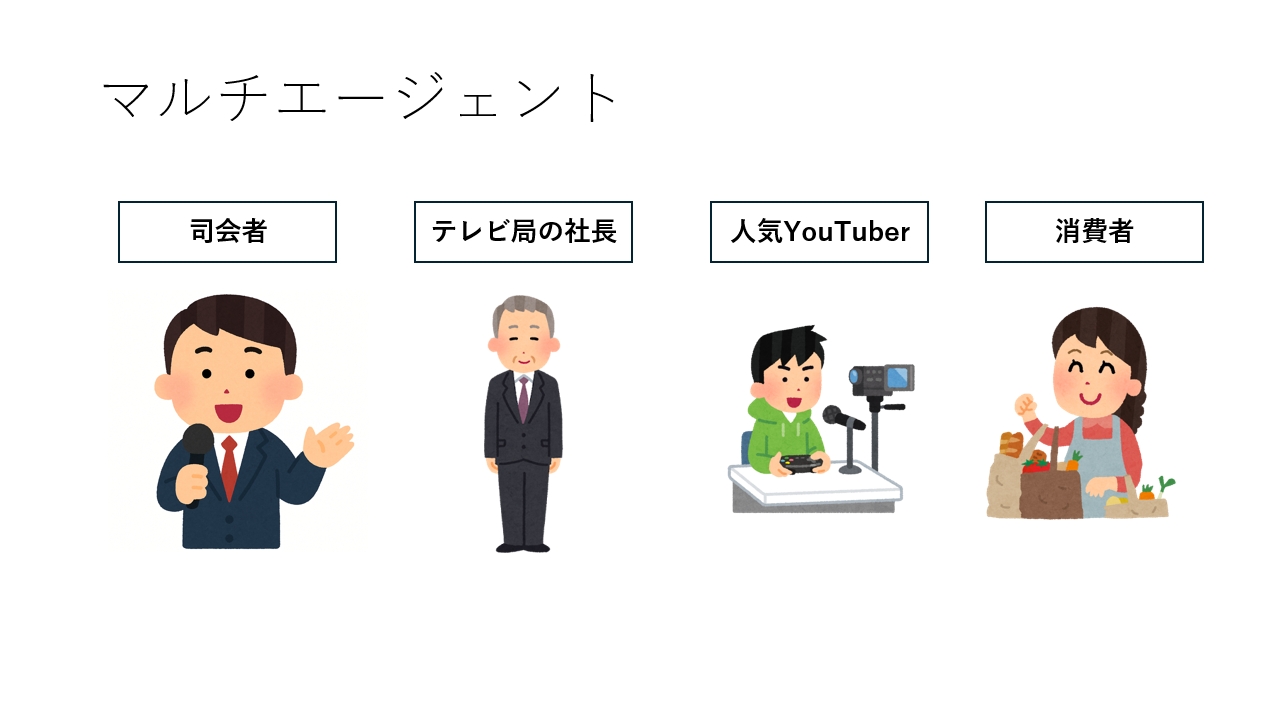
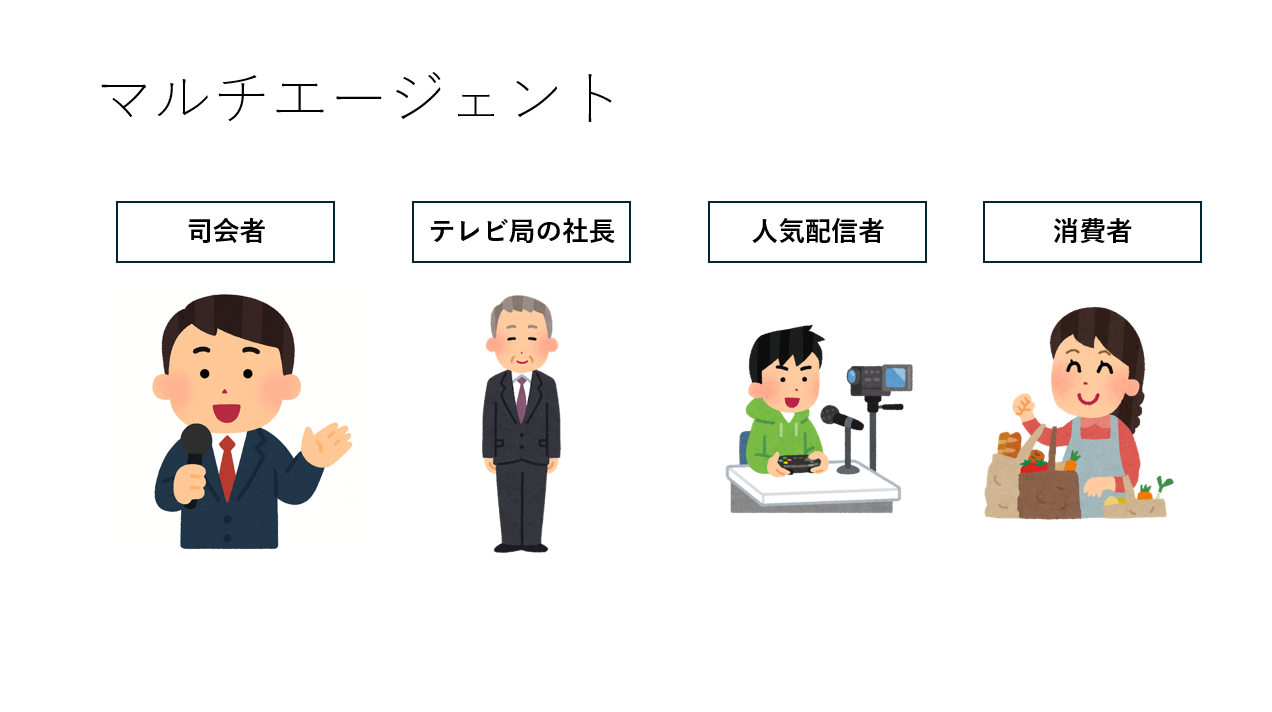
youtuber→人気配信者に変更

diff --git a/articles/aiagent_eval.md b/articles/aiagent_eval.md
@@ -12,12 +12,12 @@ publication_name: "secondselection"
 
 現在、私は**autogen**を用いたマルチエージェントシステムの構築に取り組んでいます。
 AIエージェントに関する話題は多くありますが、実際に構築を進める中でさまざまな課題に直面しました。
-詳しくは後述しますが、主な課題は「**エージェントが期待どおりに動かない**」点です。
+詳しくは後述しますが、主な課題は「**エージェントが期待どおりに動かない**」ことです。
 そこで、課題に対応するための評価方法を検討し、客観的な評価をすることにしました。
 これにより問題の所在を明確にし、効率的な改善につなげることを期待します。
 本記事では、**ディベートをするマルチエージェントシステム**を題材に、
 エージェントの設計・評価方法について記載します。
-ディベートのテーマは「テレビCMとYouTube広告のどちらが有効か」とします。
+ディベートのテーマは「テレビCMとネット広告のどちらが有効か」とします。
 
 :::details autogenとは
 Microsoftが開発したオープンソースのAIエージェント開発フレームワークです。
@@ -34,7 +34,7 @@ https://zenn.dev/secondselection/articles/ai_articles_generator
 
 > 複数のエージェントから構成されるシステムであり、個々のエージェントやモノリシックなシステムでは困難な課題をシステム全体として達成する。
 
-[引用元](https://ja.wikipedia.org/wiki/%E3%83%9E%E3%83%AB%E3%83%81%E3%82%A8%E3%83%BC%E3%82%B8%E3%82%A7%E3%83%B3%E3%83%88%E3%82%B7%E3%82%B9%E3%83%86%E3%83%A0)
+[引用元:Wikipedia](https://ja.wikipedia.org/wiki/%E3%83%9E%E3%83%AB%E3%83%81%E3%82%A8%E3%83%BC%E3%82%B8%E3%82%A7%E3%83%B3%E3%83%88%E3%82%B7%E3%82%B9%E3%83%86%E3%83%A0)
 
 難しいことが書かれていますが、シングルエージェントが協力して課題を達成するシステムを
 指します。
@@ -42,35 +42,27 @@ https://zenn.dev/secondselection/articles/ai_articles_generator
 ![alt text](/images/single.png)
 画像のような単一のエージェントのことをシングルエージェントと言います。
 ツールが用意されている場合、エージェントはツールを利用することが出来ます。
-今回は議論の内容を整理し、適切な進行をしてほしいので、議論を記録しておくツールを用意しました。
+今回は議論の内容を整理し、適切な進行をしてほしいので、議論を記録しておくツールを
+用意しました。
+
+-----
 
 ![alt text](/images/mulch.png)
-司会者、テレビ局の社長、人気YouTuber、消費者の4つのエージェントを用意しました。
-司会者が進行をして、その他のエージェントが立場に沿った議論をすることを期待します。
-ディベートの際に司会者が進行ではなく、議論に参加するなどの行為をするとディベートがうまくいきません。
-このようにマルチエージェントシステムがうまく動作するにはシングルエージェントが正しく
-動作する前提を必要とします。
+ディベートシステムを構築するにあたって司会者、テレビ局の社長、人気配信者、消費者の
+4つのエージェントを用意しました。
+司会者が進行をして、他のエージェントが立場に沿ったディベートをすることを期待します。
+ディベートの際に司会者が進行ではなく、議論に参加するなどの行為をするとどうでしょうか？
+マルチエージェントシステムがうまく動作するにはシングルエージェントが正しく動作する
+前提を必要とします。
 エージェント設計をする際は人間におきかえて考えると効果的です。
 
 ### エージェント設計
 
-マルチエージェントシステムを構築するにあたって、エージェントの設計を整理しておくと便利です。
+マルチエージェントシステムを構築するにあたって、エージェントの設計を整理しておくと
+とても便利です。
 ドキュメントになるだけでなく、評価をする際に要件を見たしているかの基準になります。
-
-### ツール
-
-今回のシステムでエージェントごとに与えるツールを整理します。
-司会者には議論記録ツール、それ以外にはWeb検索ツールを与えます。
-
-| ツール名 | 🎤 司会者 | 📺 テレビ局の社長 | 📱 人気YouTuber | 👩👦 消費者代表（子育て主婦） |
-|---------------------------|----------------|----------------------|---------------------------|---|
-| Web検索ツール |      ❌         |      ✅                |       ✅  | ✅  |
-| 議論記録ツール | ✅              |     ❌                 |      ❌                     | ❌ |
-
-### 設計
-
-エージェントごとの人格や、行動基準を定義していきます。
-設定項目を揃えておくと管理が楽になります。
+設計段階ではエージェントごとの人格や、役割、ツールを定義していきます。
+予め設定項目を揃えておくと管理が楽になります。
 ここでいう設計はシステムプロンプトと同義だと考えてください。
 ツール利用を許可する場合は利用方法を記載しておくことがポイントになります。
 
@@ -92,14 +84,14 @@ https://zenn.dev/secondselection/articles/ai_articles_generator
 | **価値観**       | 信頼性・伝統 |
 | **ツール利用ポリシー** | テレビCMの優れている点をWeb検索 |
 
-#### 📱 人気YouTuber
+#### 📱 人気配信者
 
-| 項目             | 人気YouTuber |
+| 項目             | 人気配信者 |
 |------------------|----------------|
-| **目的**         | YouTube広告と個人発信の強みを示し、現代に適した広告手法を主張 |
+| **目的**         | ネット広告と個人発信の強みを示し、現代に適した広告手法を主張 |
 | **役割**         | 実体験やSNS事例で現代的視点をリード |
 | **価値観**       | 即時性・拡散性・双方向性 |
-| **ツール利用ポリシー** | YouTube広告の優れている点をWeb検索 |
+| **ツール利用ポリシー** | ネット広告の優れている点をWeb検索 |
 
 #### 👩👦 消費者代表（子育て主婦）
 
@@ -110,24 +102,36 @@ https://zenn.dev/secondselection/articles/ai_articles_generator
 | **価値観**       | 共感・実用性・子供への影響 |
 | **ツール利用ポリシー** | 消費者の声をWeb検索し、代弁する |
 
+### ツール
+
+今回のシステムでエージェントごとに与えるツールを整理します。
+司会者には**議論記録ツール**、司会者以外には**Web検索ツール**を与えます。
+
+| ツール名 | 🎤 司会者 | 📺 テレビ局の社長 | 📱 人気配信者 | 👩👦 消費者代表（子育て主婦） |
+|---------------------------|----------------|----------------------|---------------------------|---|
+| Web検索ツール |      ❌         |      ✅                |       ✅  | ✅  |
+| 議論記録ツール | ✅              |     ❌                 |      ❌                     | ❌ |
+
 ### エージェントが期待通りに動かない
 
-各エージェントの設計が完了し、いざマルチエージェントで動作検証をしてみると思っていたのと違うことがあります。
-私はやみくもにプロンプトを修正し、検証をしていたのですが、一向に精度が改善しませんでした。
-この手法はエラーメッセージを見ずにデバッグをしているのと同じで、非効率です。
+各エージェントの設計が完了し、いざマルチエージェントで動作検証をしてみると期待と
+違うことがあります。
+私はやみくもにプロンプトを修正し、検証をしていたのですが、精度が改善しませんでした。
+この手法はエラーメッセージを見ずにデバッグをしている事と同じで非効率です。
 そこで役立つのが今回考えた評価方法になります。
 
 ## 評価について
 
 エージェントごとの評価指標を作成し、それをベースにAIエージェントの出力を評価します。
 ポイントとしてはシングルエージェントで品質担保してから、マルチエージェントに移行
-することです。より小さくシンプルに。
+することです。小さく始めて、大きく育てます。
 
 ### シングルエージェントの評価(ツールなし)
 
-評価をしやすくするためにツール利用と、ツールなしで評価は分けます。この段階ではエージェントが与えられた人格に従って発言が出来ているかを評価します。
+評価をしやすくするためにツールなしと、ツールありで評価は分けます。
+この段階ではエージェントが与えられた人格に従って発言が出来ているかを評価します。
 
-#### 人格（再掲）
+#### 👩👦 消費者代表（再掲）
 
 | 項目             | 消費者代表（子育て主婦） |
 |------------------|------------------------------|
@@ -145,10 +149,17 @@ https://zenn.dev/secondselection/articles/ai_articles_generator
 
 #### 評価の例
 
-消費者代表（子育て主婦）：「子供に動画を見せているときに、教育に良くない広告が流れてくることがあります。
-子供は影響を受けやすいため心配です。動画によって広告を変更してもらえると安心して利用できます」
+```markdown
+👩👦消費者代表（子育て主婦）：「子供に動画を見せているときに、教育に良くない広告が
+流れてくることがあります。子供は影響を受けやすいため心配です。
+動画によって広告を変更してもらえると安心して利用できます」
+```
 
-この発言は子供・家庭への影響を考慮しており、共感性のある発言になっていると考えられます。これで最低限の品質担保が出来たと言えます。この評価を全てのエージェントに対して行います。
+この発言は子供・家庭への影響を考慮しており、具体的かつ共感性のある発言になっていると
+考えられます。これで最低限の品質担保が出来たと言えます。
+この手順を全てのエージェントに対して行います。
+
+-----
 
 ### シングルエージェントの評価(ツールあり)
 
@@ -163,18 +174,28 @@ https://zenn.dev/secondselection/articles/ai_articles_generator
 
 #### 評価例
 
-司会者：「では次に、消費者の立場からYouTube広告についての懸念点についてご意見いただけますか？」
+```markdown
+[タスク]消費者の立場からネット広告の懸念点についてご意見いただけますか？
 
-消費者代表（子育て主婦）：YouTube広告について消費者の意見をWeb検索→保護者に対するアンケート結果情報を取得。
-消費者代表（子育て主婦）：20○○年に行われた調査で、小学生の保護者の約〇割が “不適切な広告を目にした経験がある” と回答しているという結果が出ていました。
-私自身も子供にアニメ動画を見せていたとき、突然ゲーム課金や刺激的な映像の広告が流れてしまい、慌てて止めた経験があります。広告の配信基準をもっと厳しくしてほしいです。
+👩👦消費者代表（子育て主婦）：
+[ツール利用] 広告について消費者の意見をWeb検索し、保護者に対するアンケート結果情報を取得。
+👩👦消費者代表（子育て主婦）：
+20○○年に行われた調査で、小学生の保護者の約〇割が “不適切な広告を目にした経験がある” 
+と回答しているという結果が出ていました。
+私自身も子供にアニメ動画を見せていたとき、突然ゲーム課金や刺激的な映像の広告が流れてしまい、
+慌てて止めた経験があります。広告の配信基準をもっと厳しくしてほしいです。
+```
 
 この例ではツールを利用して取得した情報が意見に反映できているか、適切な検索結果かを評価します。
+ツールを利用し、ネット広告に対する消費者の意見を検索しています。
+検索結果を自身の意見に取り入れて回答しているため観点を満たしたと判断します。
 
 ### マルチエージェントの評価
 
-シングルエージェントの評価が完了したらマルチエージェントに移行します。厳密に評価する場合、司会者と消費者代表の2エージェントで評価するということも考えられます。
-マルチエージェントの評価する際も基本的には同じですが、ディベートの例だとエージェントのやり取りが成立していることが求められます。
+シングルエージェントの評価が完了したらマルチエージェントに移行します。
+厳密に評価する場合、司会者と消費者など2エージェントごとに評価することも考えられます。
+マルチエージェントの評価をする際は、エージェント間のやり取りが成立していることが
+求められます。場合によってはツールを利用し、回答することも必要になります。
 
 | チェック観点          | 確認内容                       | 判定基準                                                                                  |
 | --------------- | -------------------------- | ------------------------------------------------------------------------------------- |
@@ -183,17 +204,17 @@ https://zenn.dev/secondselection/articles/ai_articles_generator
 | **相互理解**   | 他エージェントの発言を理解し、要点を踏まえた応答か | 〇：要点を引用・言い換えして応答<br>△：部分的に拾うが浅い<br>×：無関係な応答           |
 
 🎤 司会者
-「では次に、“YouTube広告が子供に与える影響”について、消費者代表の方からご意見をお願いします」
+「では次に、“ネット広告が子供に与える影響”について、消費者代表の方からご意見をお願いします」
 
 📺 テレビ局の社長
 「テレビCMでは放送倫理や審査基準があり、子供に悪影響のある内容は基本的に流れません。その点でテレビは安心感があると考えています」
 
-📱 人気YouTuber
-「確かにテレビの基準は厳しいですが、YouTubeもAIによる広告チェックを強化してきています。ただ、まだ完全ではなく、時々すり抜けがあるのも事実です」
+📱 人気配信者
+「確かにテレビの基準は厳しいですが、ネット広告もAIによる広告チェックを強化してきています。ただ、まだ完全ではなく、時々すり抜けがあるのも事実です」
 
 👩👦 消費者代表(子育て主婦)
 Web検索で検索したところ、20○○年の調査で保護者の〇割以上が『子供が不適切な広告を目にしたことがある』と答えているという結果が出ていました。
-社長がおっしゃった“テレビの信頼性”は、この数字から見ても確かに裏付けられています。一方でYouTuberさんのご意見にある“AI審査の強化”についても、調査では『改善はしているが依然として課題が残る』と指摘されていました。
+社長がおっしゃった“テレビの信頼性”は、この数字から見ても確かに裏付けられています。一方で人気配信者さんのご意見にある“AI審査の強化”についても、調査では『改善はしているが依然として課題が残る』と指摘されていました。
 なので結論としては、両方の意見に共通している“安全性の担保”が重要です。具体的には、家庭で親が広告を選別できる機能をもっと使いやすくすることが現実的な解決策だと考えます。
 
 この過程まで来ると全体としての評価が必要になります。消費者代表の意見をみてみると、チェック観点を全てクリアできていると言えます。
